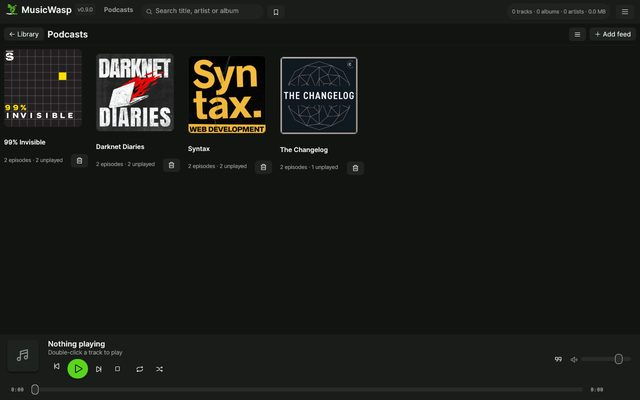
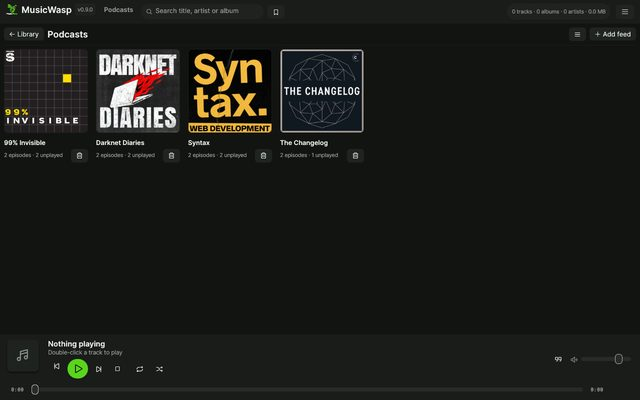
Fix covers alignements

Changed region(s): [[0.0, 0.12, 0.5938, 0.42], [0.0625, 0.15, 0.125, 0.24], [0.0, 0.12, 0.0312, 0.15]]

diff --git a/gui/src/ui/radio.rs b/gui/src/ui/radio.rs
@@ -70,86 +70,96 @@ pub fn radio_view(app: &mut App, ui: &mut egui::Ui) {
                 .id_salt("radio_stations_grid")
                 .auto_shrink([false, false])
                 .show(ui, |ui| {
-                    ui.horizontal_wrapped(|ui| {
-                        ui.spacing_mut().item_spacing = egui::vec2(16.0, 16.0);
-                        for index in 0..app.radio.stations.len() {
-                            let station = &app.radio.stations[index];
-                            let texture = app.remote_covers.texture(
-                                &ctx,
-                                &station.image_url,
-                                musicwasp_core::netguard::Access::AnyHost,
-                            );
-                            let playing = app.stream.info.as_ref().is_some_and(|stream| {
-                                stream.kind == StreamKind::Radio && stream.url == station.url
-                            });
-                            let id = station.id;
-                            let name = station.name.clone();
-                            let genre = station.genre.clone();
-                            let initials = initials(&name);
-                            ui.allocate_ui_with_layout(
-                                egui::vec2(168.0, 220.0),
-                                egui::Layout::top_down(egui::Align::Min),
-                                |ui| {
-                                    let cover = cover_art(
-                                        ui,
-                                        texture.as_ref(),
-                                        168.0,
-                                        &initials,
-                                        icons::BROADCAST,
-                                    );
-                                    if cover.clicked() {
-                                        station_action = Some(StationAction::Play(index));
-                                    }
-                                    let cover = cover.on_hover_text(tr("radio.play_station"));
-                                    cover.widget_info(|| {
-                                        WidgetInfo::labeled(WidgetType::Button, true, &name)
-                                    });
-                                    if playing {
-                                        ui.painter().circle_filled(
-                                            cover.rect.right_bottom() - egui::vec2(14.0, 14.0),
-                                            4.0,
-                                            th::accent(),
+                    let gap = 16.0;
+                    let tile_size = 168.0;
+                    let cols = (((ui.available_width() + gap) / (tile_size + gap)).floor()
+                        as usize)
+                        .max(1);
+                    let len = app.radio.stations.len();
+                    for start in (0..len).step_by(cols) {
+                        ui.horizontal_top(|ui| {
+                            ui.spacing_mut().item_spacing.x = gap;
+                            for index in start..(start + cols).min(len) {
+                                let station = &app.radio.stations[index];
+                                let texture = app.remote_covers.texture(
+                                    &ctx,
+                                    &station.image_url,
+                                    musicwasp_core::netguard::Access::AnyHost,
+                                );
+                                let playing = app.stream.info.as_ref().is_some_and(|stream| {
+                                    stream.kind == StreamKind::Radio && stream.url == station.url
+                                });
+                                let id = station.id;
+                                let name = station.name.clone();
+                                let genre = station.genre.clone();
+                                let initials = initials(&name);
+                                ui.allocate_ui_with_layout(
+                                    egui::vec2(168.0, 220.0),
+                                    egui::Layout::top_down(egui::Align::Min),
+                                    |ui| {
+                                        let cover = cover_art(
+                                            ui,
+                                            texture.as_ref(),
+                                            168.0,
+                                            &initials,
+                                            icons::BROADCAST,
                                         );
-                                    }
-                                    cover.context_menu(|ui| {
-                                        if ui.button(tr("radio.delete_station")).clicked() {
-                                            station_action = Some(StationAction::Delete(id));
-                                            ui.close();
+                                        if cover.clicked() {
+                                            station_action = Some(StationAction::Play(index));
                                         }
-                                    });
-                                    ui.add_space(6.0);
-                                    ui.add(
-                                        egui::Label::new(
-                                            th::semibold(&name, th::TEXT_BODY).color(th::text()),
-                                        )
-                                        .truncate(),
-                                    );
-                                    ui.horizontal(|ui| {
-                                        ui.label(
-                                            RichText::new(genre)
-                                                .size(th::TEXT_CAPTION)
-                                                .color(th::text_dim()),
+                                        let cover = cover.on_hover_text(tr("radio.play_station"));
+                                        cover.widget_info(|| {
+                                            WidgetInfo::labeled(WidgetType::Button, true, &name)
+                                        });
+                                        if playing {
+                                            ui.painter().circle_filled(
+                                                cover.rect.right_bottom() - egui::vec2(14.0, 14.0),
+                                                4.0,
+                                                th::accent(),
+                                            );
+                                        }
+                                        cover.context_menu(|ui| {
+                                            if ui.button(tr("radio.delete_station")).clicked() {
+                                                station_action = Some(StationAction::Delete(id));
+                                                ui.close();
+                                            }
+                                        });
+                                        ui.add_space(6.0);
+                                        ui.add(
+                                            egui::Label::new(
+                                                th::semibold(&name, th::TEXT_BODY)
+                                                    .color(th::text()),
+                                            )
+                                            .truncate(),
                                         );
-                                        ui.with_layout(
-                                            egui::Layout::right_to_left(egui::Align::Center),
-                                            |ui| {
-                                                if icons::compact(
-                                                    ui,
-                                                    icons::TRASH,
-                                                    tr("radio.delete_station"),
-                                                )
-                                                .clicked()
-                                                {
-                                                    station_action =
-                                                        Some(StationAction::Delete(id));
-                                                }
-                                            },
-                                        );
-                                    });
-                                },
-                            );
-                        }
-                    });
+                                        ui.horizontal(|ui| {
+                                            ui.label(
+                                                RichText::new(genre)
+                                                    .size(th::TEXT_CAPTION)
+                                                    .color(th::text_dim()),
+                                            );
+                                            ui.with_layout(
+                                                egui::Layout::right_to_left(egui::Align::Center),
+                                                |ui| {
+                                                    if icons::compact(
+                                                        ui,
+                                                        icons::TRASH,
+                                                        tr("radio.delete_station"),
+                                                    )
+                                                    .clicked()
+                                                    {
+                                                        station_action =
+                                                            Some(StationAction::Delete(id));
+                                                    }
+                                                },
+                                            );
+                                        });
+                                    },
+                                );
+                            }
+                        });
+                        ui.add_space(gap);
+                    }
                 });
         } else {
             egui::ScrollArea::vertical()

diff --git a/gui/src/ui/podcasts.rs b/gui/src/ui/podcasts.rs
@@ -91,78 +91,95 @@ pub fn podcasts_view(app: &mut App, ui: &mut egui::Ui) {
                     .id_salt("podcast_feeds_grid")
                     .auto_shrink([false, false])
                     .show(ui, |ui| {
-                        ui.horizontal_wrapped(|ui| {
-                            ui.spacing_mut().item_spacing = egui::vec2(16.0, 16.0);
-                            for index in 0..app.podcast.feeds.len() {
-                                let feed = &app.podcast.feeds[index];
-                                let texture =
-                                    app.remote_covers.texture(&ctx, &feed.image_url, access);
-                                let id = feed.id;
-                                let title = feed.title.clone();
-                                let summary = format!(
-                                    "{} episodes · {} unplayed",
-                                    feed.episode_count, feed.unplayed_count
-                                );
-                                let initials = initials(&title);
-                                ui.allocate_ui_with_layout(
-                                    egui::vec2(168.0, 220.0),
-                                    egui::Layout::top_down(egui::Align::Min),
-                                    |ui| {
-                                        let cover = cover_art(
-                                            ui,
-                                            texture.as_ref(),
-                                            168.0,
-                                            &initials,
-                                            icons::MICROPHONE,
-                                        );
-                                        if cover.clicked() {
-                                            feed_action = Some(FeedAction::Select(id));
-                                        }
-                                        cover.widget_info(|| {
-                                            WidgetInfo::labeled(WidgetType::Button, true, &title)
-                                        });
-                                        cover.context_menu(|ui| {
-                                            if ui
-                                                .button(tr("podcasts.delete_subscription"))
-                                                .clicked()
-                                            {
-                                                feed_action = Some(FeedAction::Delete(id));
-                                                ui.close();
+                        let gap = 16.0;
+                        let tile_size = 168.0;
+                        let cols = (((ui.available_width() + gap) / (tile_size + gap)).floor()
+                            as usize)
+                            .max(1);
+                        let len = app.podcast.feeds.len();
+                        for start in (0..len).step_by(cols) {
+                            ui.horizontal_top(|ui| {
+                                ui.spacing_mut().item_spacing.x = gap;
+                                for index in start..(start + cols).min(len) {
+                                    let feed = &app.podcast.feeds[index];
+                                    let texture =
+                                        app.remote_covers.texture(&ctx, &feed.image_url, access);
+                                    let id = feed.id;
+                                    let title = feed.title.clone();
+                                    let summary = format!(
+                                        "{} episodes · {} unplayed",
+                                        feed.episode_count, feed.unplayed_count
+                                    );
+                                    let initials = initials(&title);
+                                    ui.allocate_ui_with_layout(
+                                        egui::vec2(168.0, 220.0),
+                                        egui::Layout::top_down(egui::Align::Min),
+                                        |ui| {
+                                            ui.set_min_size(egui::vec2(168.0, 220.0));
+                                            let cover = cover_art(
+                                                ui,
+                                                texture.as_ref(),
+                                                168.0,
+                                                &initials,
+                                                icons::MICROPHONE,
+                                            );
+                                            if cover.clicked() {
+                                                feed_action = Some(FeedAction::Select(id));
                                             }
-                                        });
-                                        ui.add_space(6.0);
-                                        ui.add(
-                                            egui::Label::new(
-                                                th::semibold(&title, th::TEXT_BODY)
-                                                    .color(th::text()),
-                                            )
-                                            .truncate(),
-                                        );
-                                        ui.horizontal(|ui| {
-                                            ui.label(
-                                                RichText::new(summary)
-                                                    .size(th::TEXT_CAPTION)
-                                                    .color(th::text_dim()),
-                                            );
-                                            ui.with_layout(
-                                                egui::Layout::right_to_left(egui::Align::Center),
-                                                |ui| {
-                                                    if icons::compact(
-                                                        ui,
-                                                        icons::TRASH,
-                                                        tr("podcasts.delete_subscription"),
-                                                    )
+                                            cover.widget_info(|| {
+                                                WidgetInfo::labeled(
+                                                    WidgetType::Button,
+                                                    true,
+                                                    &title,
+                                                )
+                                            });
+                                            cover.context_menu(|ui| {
+                                                if ui
+                                                    .button(tr("podcasts.delete_subscription"))
                                                     .clicked()
-                                                    {
-                                                        feed_action = Some(FeedAction::Delete(id));
-                                                    }
-                                                },
+                                                {
+                                                    feed_action = Some(FeedAction::Delete(id));
+                                                    ui.close();
+                                                }
+                                            });
+                                            ui.add_space(6.0);
+                                            ui.add(
+                                                egui::Label::new(
+                                                    th::semibold(&title, th::TEXT_BODY)
+                                                        .color(th::text()),
+                                                )
+                                                .truncate(),
                                             );
-                                        });
-                                    },
-                                );
-                            }
-                        });
+                                            ui.horizontal(|ui| {
+                                                ui.label(
+                                                    RichText::new(summary)
+                                                        .size(th::TEXT_CAPTION)
+                                                        .color(th::text_dim()),
+                                                );
+                                                ui.with_layout(
+                                                    egui::Layout::right_to_left(
+                                                        egui::Align::Center,
+                                                    ),
+                                                    |ui| {
+                                                        if icons::compact(
+                                                            ui,
+                                                            icons::TRASH,
+                                                            tr("podcasts.delete_subscription"),
+                                                        )
+                                                        .clicked()
+                                                        {
+                                                            feed_action =
+                                                                Some(FeedAction::Delete(id));
+                                                        }
+                                                    },
+                                                );
+                                            });
+                                        },
+                                    );
+                                }
+                            });
+                            ui.add_space(gap);
+                        }
                     });
             } else {
                 egui::ScrollArea::vertical()
